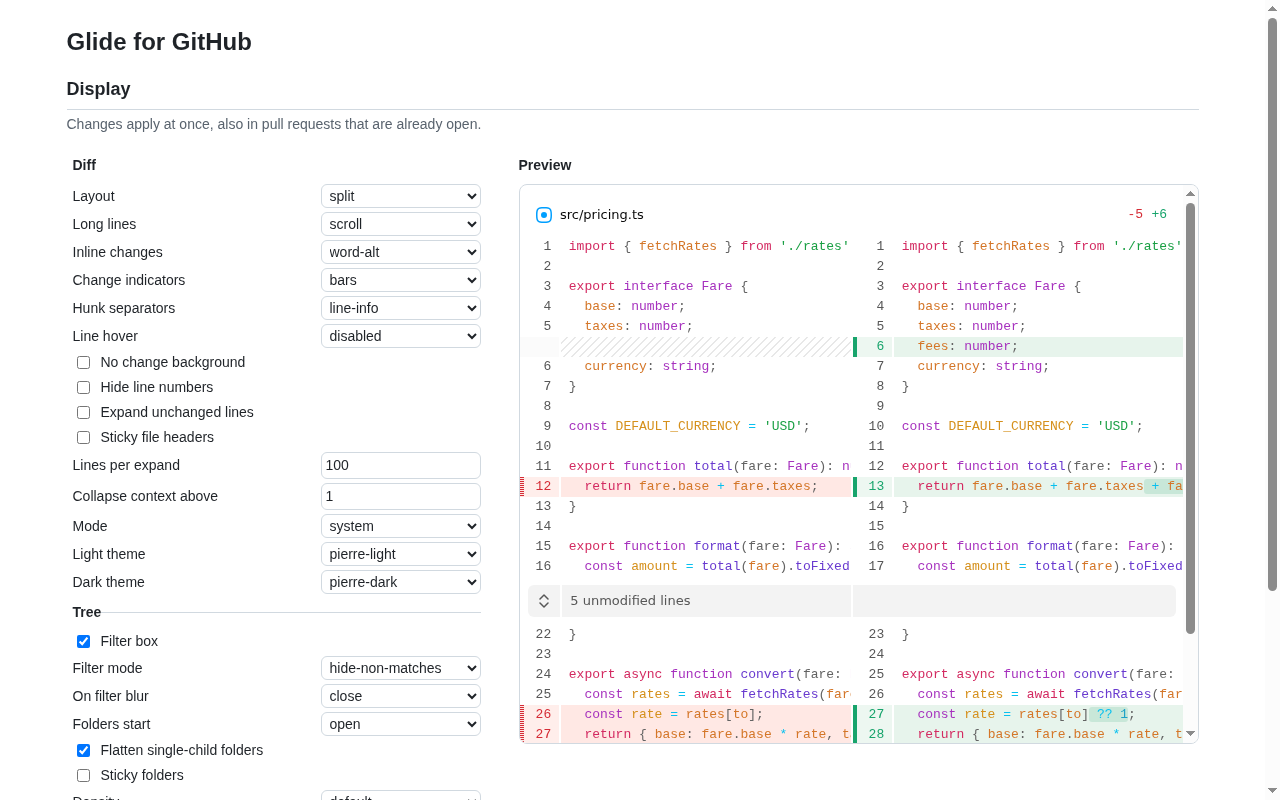
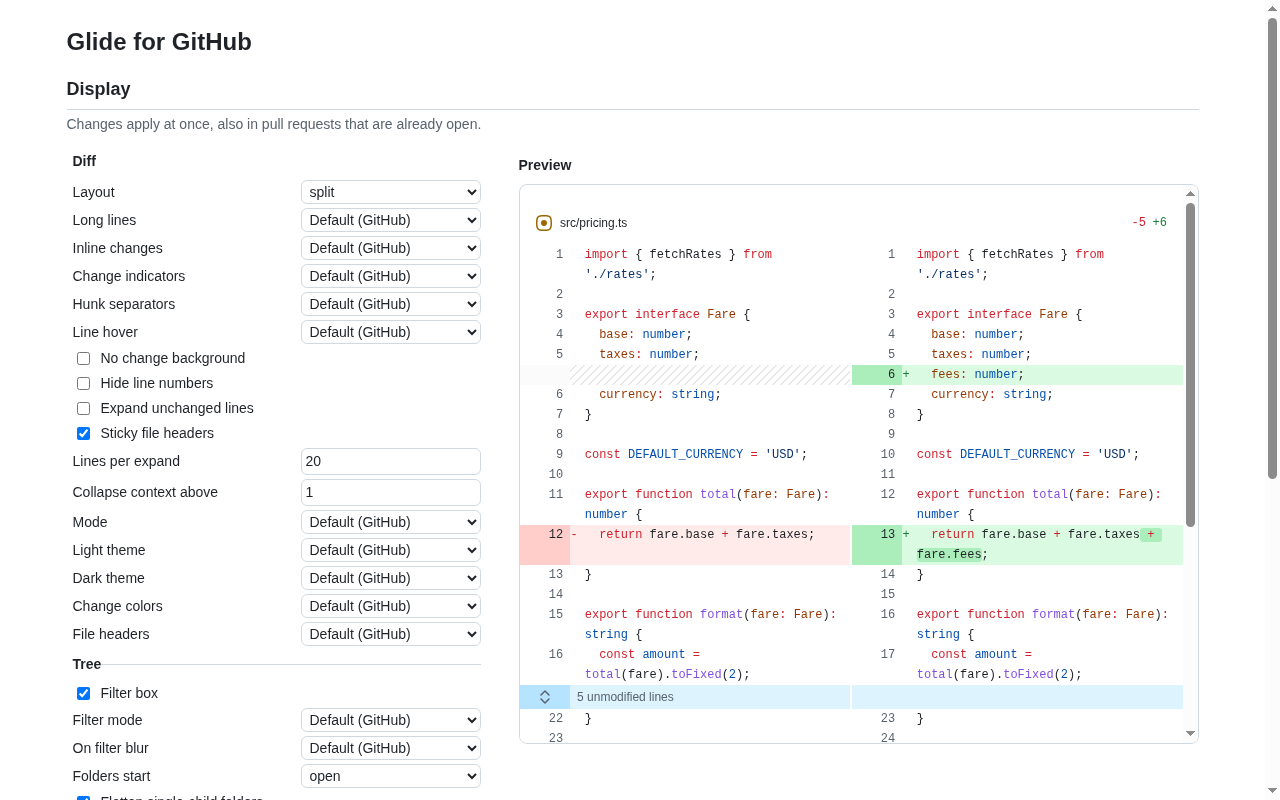
release: 0.2.0, the first Chrome Web Store version
New store screenshots of the current look (GitHub default look, Diff Sprint
icon, file counts on the tab).

diff --git a/store/README.md b/store/README.md
@@ -86,12 +86,12 @@ outside the approved use cases, no use unrelated to the single purpose, no use f
 
 ## First submission checklist
 
-The first upload is manual (the store API can only update an item that exists). Version 0.1.0 is not submitted yet.
+The first upload is manual (the store API can only update an item that exists). Version 0.2.0 is the first one submitted.
 
-1. Push the `v0.1.0` tag. CI builds, creates the GitHub release with `glide-for-github.zip`, and skips the store
+1. Push the `v0.2.0` tag. CI builds, creates the GitHub release with `glide-for-github.zip`, and skips the store
    upload (no secrets yet; the job says so in a notice).
 2. [Developer dashboard](https://chrome.google.com/webstore/devconsole) > **Add new item** > upload
-   `glide-for-github.zip` from the v0.1.0 GitHub release.
+   `glide-for-github.zip` from the v0.2.0 GitHub release.
 3. **Store listing** tab: fill name, summary, description, category and language from the Listing section above; upload
    the icon, the four screenshots and the small and marquee tiles from the Assets table.
 4. **Privacy** tab: single purpose, the three permission justifications, remote code "No", data usage, and the privacy
